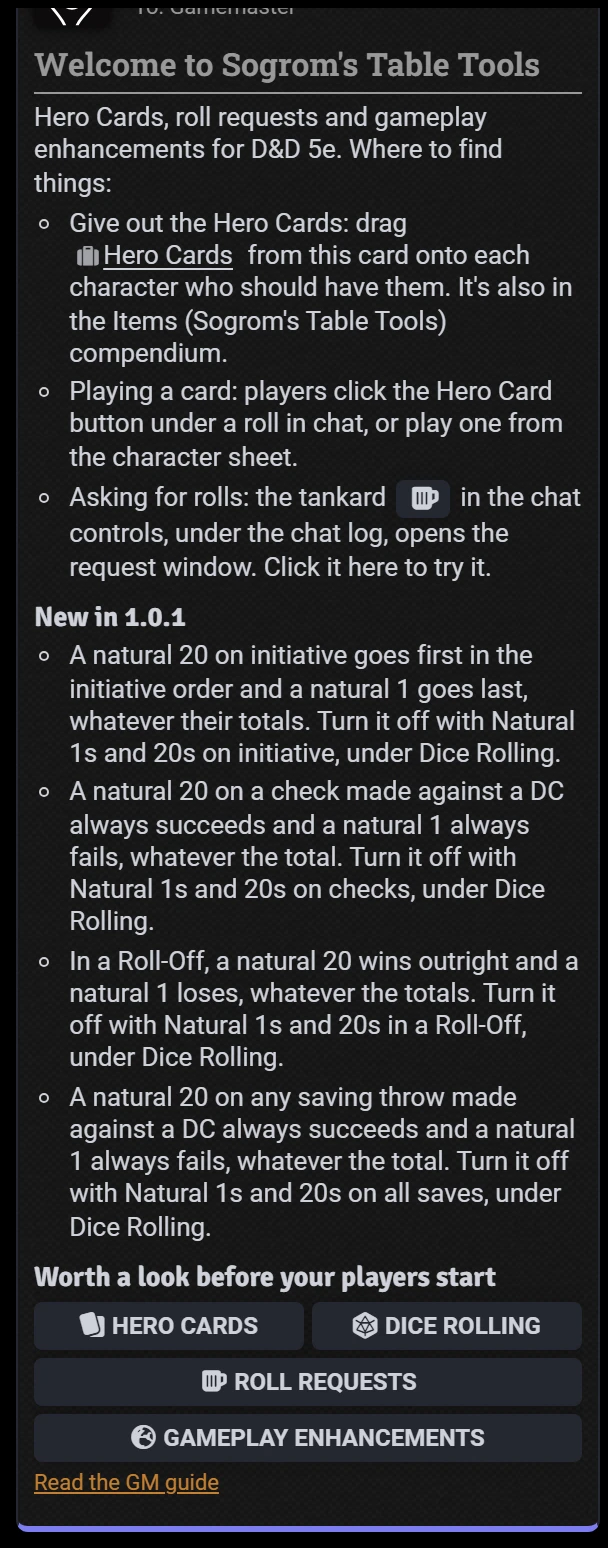
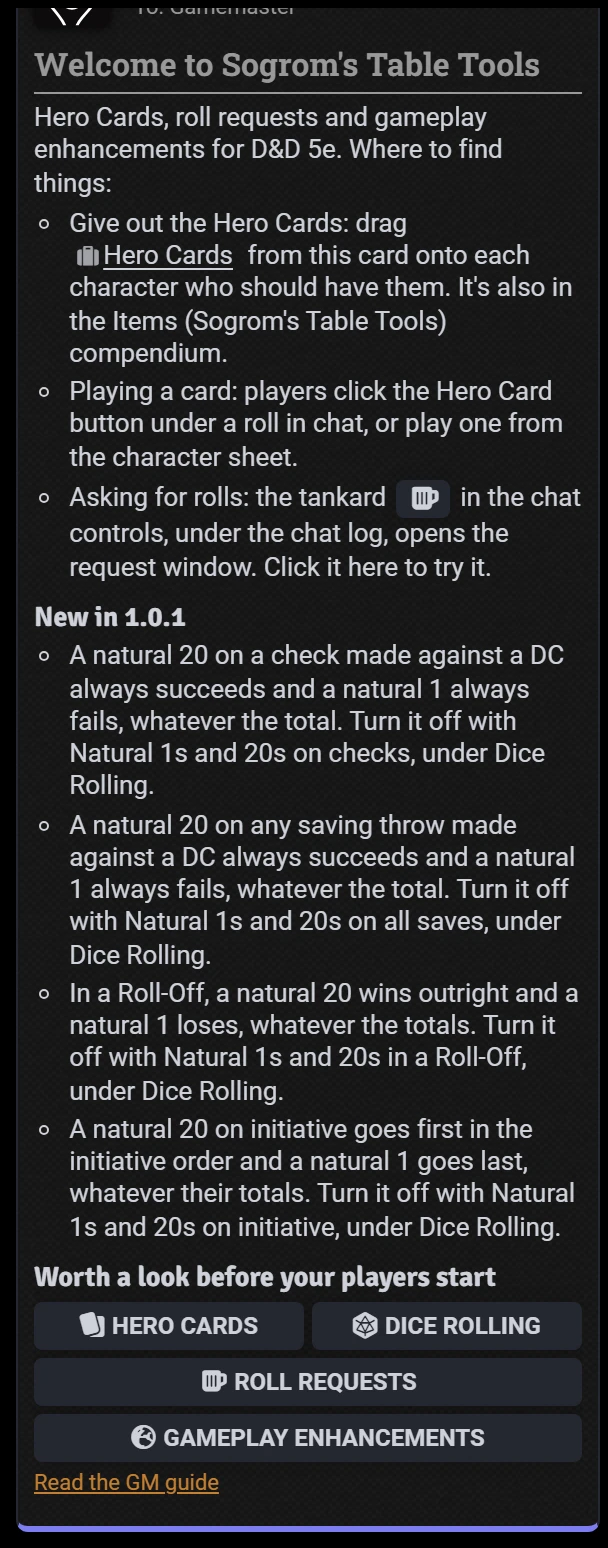
Natural 1 and 20 rules listed in the settings order
The welcome card and the changelog list the new rules as the Dice Rolling settings do, and the GM guide names Midi-QOL's own rule for natural 1s and 20s on the saves it rolls.

Changed region(s): [[0.0625, 0.4031, 0.9688, 0.8062]]

diff --git a/CHANGELOG.md b/CHANGELOG.md
@@ -6,21 +6,21 @@ All notable changes to Sogrom's Table Tools.
 
 ### Dice rolling
 
-- **Natural 1s and 20s on initiative.** A creature whose initiative roll shows a natural 20 goes first in the
-  initiative order, above any higher total, and one whose roll shows a natural 1 goes last. Each keeps the initiative
-  it rolled, shown in gold or red in the combat tracker. On by default; turn it off with **Natural 1s and 20s on
-  initiative**, under **Dice Rolling**.
 - **Natural 1s and 20s on checks.** A natural 20 on an ability check, skill check or tool check made against a DC
   always succeeds, and a natural 1 always fails, whatever the total: on request cards, where a plain d20 is judged the
   same way, and on any check D&D 5e rolls against a DC. On by default; turn it off with **Natural 1s and 20s on
   checks**, under **Dice Rolling**.
-- **Natural 1s and 20s in a Roll-Off.** In a Roll-Off between two d20 rolls, a natural 20 wins outright, against any
-  total but another natural 20, and a natural 1 loses to anything but another natural 1. The card says when a natural
-  decided it. On by default; turn it off with **Natural 1s and 20s in a Roll-Off**, under **Dice Rolling**.
 - **Natural 1s and 20s on all saves.** A natural 20 on a saving throw made against a DC always succeeds, and a natural
   1 always fails, whatever the total: saves against spells and features, concentration saves, and saves on request
   cards. Death saves keep D&D 5e's own rules. On by default; turn it off with **Natural 1s and 20s on all saves**, under
   **Dice Rolling**.
+- **Natural 1s and 20s in a Roll-Off.** In a Roll-Off between two d20 rolls, a natural 20 wins outright, against any
+  total but another natural 20, and a natural 1 loses to anything but another natural 1. The card says when a natural
+  decided it. On by default; turn it off with **Natural 1s and 20s in a Roll-Off**, under **Dice Rolling**.
+- **Natural 1s and 20s on initiative.** A creature whose initiative roll shows a natural 20 goes first in the
+  initiative order, above any higher total, and one whose roll shows a natural 1 goes last. Each keeps the initiative
+  it rolled, shown in gold or red in the combat tracker. On by default; turn it off with **Natural 1s and 20s on
+  initiative**, under **Dice Rolling**.
 
 ### Fixes
 

diff --git a/docs/gm.md b/docs/gm.md
@@ -378,8 +378,8 @@ Sogrom's Table Tools works alongside modules that change how D&D 5e rolls and sh
   and a natural 1 takes the damage's maximum past resistances and immunities, following **Natural 1s and 20s on saves
   against damage**. A feature's die that Midi shows on the feature's card, such as Bardic Inspiration, can be added to
   a roll from the card's right-click menu. Natural 1s and 20s on the saves Midi lists on its card are ringed. Midi judges
-  the saves it rolls itself, by its own settings, so **Natural 1s and 20s on all saves** doesn't change who it counts as
-  saved.
+  the saves it rolls itself by their totals, so **Natural 1s and 20s on all saves** doesn't change who it counts as
+  saved. For the same rule there, turn on Midi's own **Critical/Fumble always succeed/fail for saving throws**.
 
   What isn't supported: a card played after Midi has resolved a roll changes the roll in chat, but not the hits,
   saves or damage Midi has already worked out and applied. If you want cards to decide outcomes, set Midi's hit
